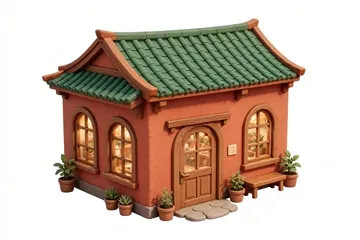
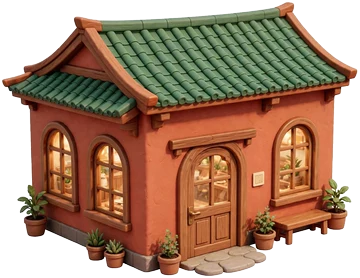
assets: transparent backgrounds for 5 shop card images (zukan silhouette showed as a band)
Claude-Session: https://claude.ai/code/session_01Bp5TxBe5ASoz3kzH4S8qad

diff --git a/art/prototypes/cards-cutout.py b/art/prototypes/cards-cutout.py
@@ -1,0 +1,57 @@
+# 図鑑・シートの種類の絵（src/assets/shops/cards/<種類>.webp）を、白い背景の元の絵から作る。
+# 外側（絵の縁）につながる白っぽい所だけを透明にし（建物の中の白は残す）、絵の大きさに切り詰めて幅 360px にする。
+# 使い方（numpy の入った Blender の Python で）:
+#   PY=/home/otosa/tools/blender/blender-4.2.3-linux-x64/4.2/python/bin/python3.11
+#   $PY art/prototypes/cards-cutout.py burger donburi ethnic okonomiyaki takoyaki
+# 読み書きは ffmpeg（生の RGBA を受け渡し）。2026-11-13 図鑑の「？」が帯になる（背景ごと黒くなる）ので作った。
+import subprocess, sys
+import numpy as np
+
+SRC = 'art/reference/shops/{}.webp'
+DST = 'src/assets/shops/cards/{}.webp'
+OUT_W = 360
+
+def read(path):
+    w, h = map(int, subprocess.check_output(['ffprobe', '-v', 'error', '-select_streams', 'v:0', '-show_entries', 'stream=width,height', '-of', 'csv=p=0', path]).decode().strip().split(','))
+    raw = subprocess.check_output(['ffmpeg', '-v', 'error', '-i', path, '-f', 'rawvideo', '-pix_fmt', 'rgba', '-'])
+    return np.frombuffer(raw, np.uint8).reshape(h, w, 4).copy()
+
+def write(img, path):
+    h, w = img.shape[:2]
+    subprocess.run(['ffmpeg', '-v', 'error', '-y', '-f', 'rawvideo', '-pix_fmt', 'rgba', '-s', f'{w}x{h}', '-i', '-',
+                    '-vf', f'scale={OUT_W}:-2:flags=lanczos', '-c:v', 'libwebp', '-lossless', '0', '-q:v', '88', '-pix_fmt', 'yuva420p', path],
+                   input=img.tobytes(), check=True)
+
+def cutout(img):
+    rgb = img[:, :, :3].astype(np.int16)
+    lo = rgb.min(axis=2)
+    chroma = rgb.max(axis=2) - lo
+    cand = (lo >= 228) & (chroma <= 18)          # 白っぽい（背景と、建物の下のごく薄い影）
+    region = np.zeros_like(cand)
+    region[0, :] = cand[0, :]; region[-1, :] = cand[-1, :]; region[:, 0] = cand[:, 0]; region[:, -1] = cand[:, -1]
+    while True:                                   # 縁から白っぽい所をたどって広げる
+        grown = region.copy()
+        grown[1:, :] |= region[:-1, :]; grown[:-1, :] |= region[1:, :]
+        grown[:, 1:] |= region[:, :-1]; grown[:, :-1] |= region[:, 1:]
+        grown &= cand
+        if (grown == region).all():
+            break
+        region = grown
+    alpha = np.where(region, 0, 255).astype(np.float32)
+    # 縁をなめらかに: 背景のとなりの画素は白さに応じて少し透かす
+    edge = np.zeros_like(region)
+    edge[1:, :] |= region[:-1, :]; edge[:-1, :] |= region[1:, :]; edge[:, 1:] |= region[:, :-1]; edge[:, :-1] |= region[:, 1:]
+    edge &= ~region
+    soft = np.clip((255 - lo) / 40.0, 0, 1) * 255
+    alpha[edge] = np.minimum(alpha[edge], soft[edge])
+    out = img.copy()
+    out[:, :, 3] = alpha.astype(np.uint8)
+    ys, xs = np.where(alpha > 0)
+    pad = 8
+    y0, y1 = max(0, ys.min() - pad), min(img.shape[0], ys.max() + pad + 1)
+    x0, x1 = max(0, xs.min() - pad), min(img.shape[1], xs.max() + pad + 1)
+    return out[y0:y1, x0:x1]
+
+for kind in sys.argv[1:]:
+    write(cutout(read(SRC.format(kind))), DST.format(kind))
+    print('ok', kind)
